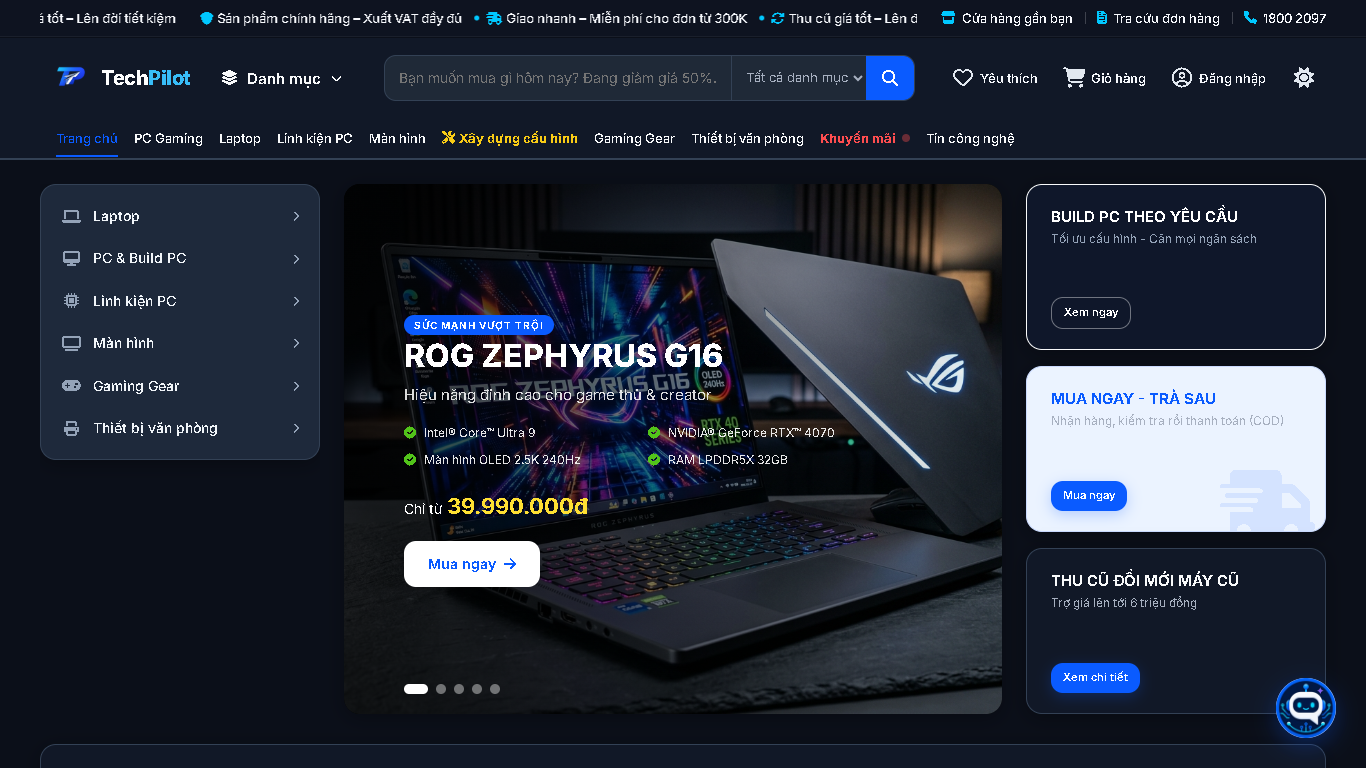
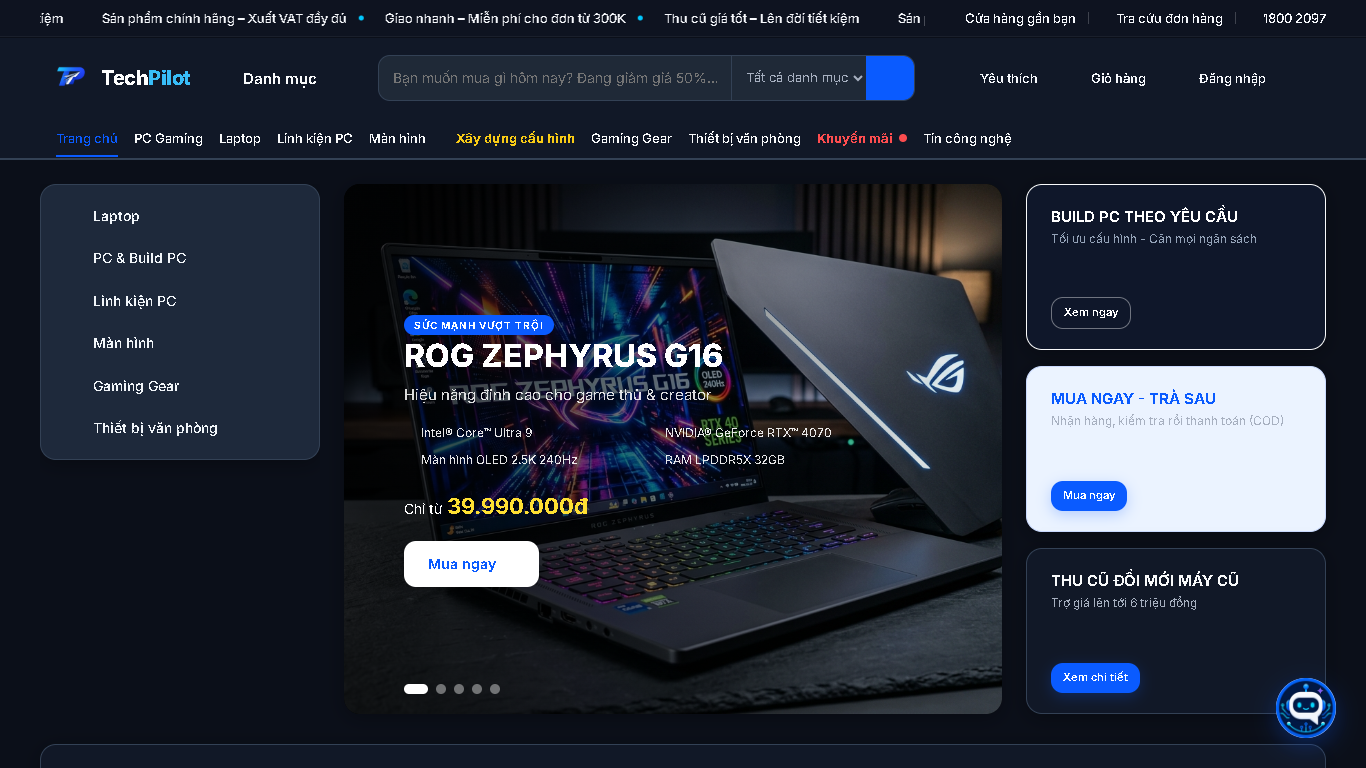
docs(catalog-ui): update checkpoint 2 v4 evidence report and screenshot files

diff --git a/docs/reviews/catalog/CHECKPOINT_2_CATEGORY_MENU_UI.md b/docs/reviews/catalog/CHECKPOINT_2_CATEGORY_MENU_UI.md
@@ -1,68 +1,74 @@
-# CHECKPOINT 2 — CATEGORY MENU UI INTEGRATION & LAYOUT HARDENING REPORT (V3 FINAL)
+# CHECKPOINT 2 — CATEGORY MENU UI INTEGRATION & LAYOUT HARDENING REPORT (V4 FINAL)
 
 **Dự án:** TechPilot  
 **Thời điểm thực hiện:** 23/07/2026  
-**Trạng thái Checkpoint:** HOÀN THÀNH — DỪNG TẠI `STOPPED_WAITING_FOR_REVIEW_GATE_CATEGORY_MENU_UI_V3`
+**Trạng thái Checkpoint:** HOÀN THÀNH — DỪNG TẠI `STOPPED_WAITING_FOR_REVIEW_GATE_CATEGORY_MENU_UI_V4`
 
 ---
 
 ## 1. Executive Summary
 
-Báo cáo Checkpoint 2 V3 trình bày toàn bộ kết quả hoàn thiện **Hợp nhất Controller Navigation, Khởi tạo độc lập Static & Dropdown Menu, Chuẩn hóa WAI-ARIA & Target ID Verification, Focus Isolation (`inert`), Tìm kiếm Select Selected State Resolution & Thống nhất Bộ Test Browser 15 Kịch bản**:
+Báo cáo Checkpoint 2 V4 trình bày toàn bộ kết quả hoàn thiện **Thống nhất Breakpoint Responsive Main Nav (`1024px`), Chuẩn hóa Desktop Accessibility (`syncMainNavResponsiveState`), Chỉ dùng Một Class State (`is-mobile-open`), Kiểm Thử Tách Biệt Từng Breakpoint Viewport & Bổ Sung 19 Kịch Bản Interaction Test**:
 
-1. **Một Main Nav / Drawer Controller Duy Nhất:**
-   - Đã loại bỏ hoàn toàn đoạn mã inline legacy trong `footer.php` (dòng 138-154 cũ) làm thao tác biến đổi `.main-nav.is-active`.
-   - Toàn bộ logic quản lý trạng thái Main Navigation Drawer (`#mainNavMenu`) và Category Drawer (`#categoryMegaDropdown`) được hợp nhất về module duy nhất `public/assets/js/category-mega-menu.js`.
-   - Loại bỏ dual class state. Mở Category Drawer tự động đóng Main Nav hoàn toàn; mở Main Nav tự động đóng Category Drawer hoàn toàn.
+1. **Thống Nhất Responsive Breakpoint Main Nav (1024px):**
+   - Đã thống nhất `MAIN_NAV_DRAWER_BREAKPOINT = 1024px` cho toàn bộ giao diện Main Navigation.
+   - **Tại `<= 1024px` (Drawer Mode):**
+     - Nút `mobileMenuToggle` hiển thị chuẩn (`display: flex !important`).
+     - Menu `mainNavMenu` mặc định đóng với `aria-hidden="true"`, `inert=""`, `visibility: hidden`, `pointer-events: none`.
+   - **Tại `> 1024px` (Desktop Mode):**
+     - Nút `mobileMenuToggle` ẩn hoàn toàn (`display: none !important`).
+     - Menu `mainNavMenu` hiển thị thanh điều hướng desktop chuẩn; tự động xóa bỏ `aria-hidden`, xóa bỏ `inert`, không chứa class drawer state.
 
-2. **Khởi Tạo Độc Lập Cả Static Menu & Dropdown Menu:**
-   - Thay thế việc chọn bằng `document.getElementById('categoryMegaDropdown') || document.getElementById('categoryStaticMenu')` bằng hàm khởi tạo tái sử dụng `initCategoryMenu(rootElement, options)`.
-   - Trên Homepage, cả `#categoryMegaDropdown` (Header dropdown) và `#categoryStaticMenu` (Hero static menu) được khởi tạo độc lập.
-   - Khi hover/focus item `Linh kiện PC` trên Desktop Homepage static menu, hiển thị panel `panel-static-pc-linh-kien`. Rê chuột từ sidebar item sang mega panel không bị đóng panel. `mouseleave` toàn bộ container `#categoryStaticMenu` mới thu gọn panel.
+2. **Chuẩn Hóa Desktop Accessibility & Dynamic Responsive Listener:**
+   - Xây dựng hàm `syncMainNavResponsiveState()` quản lý đồng bộ trạng thái khi kích thước màn hình thay đổi.
+   - Thêm bộ lắng nghe sự kiện `window.matchMedia('(max-width: 1024px)')` và `window.addEventListener('resize', syncMainNavResponsiveState)`.
+   - Khi chuyển từ mobile/tablet sang desktop (>1024px): tự động loại bỏ body scroll lock (`category-scroll-locked`), gỡ bỏ `is-mobile-open`, gỡ bỏ `aria-hidden` và `inert`.
 
-3. **Chuẩn Hóa ARIA Targets & Expanded Attributes:**
-   - Đổi `aria-controls="categoryMobileDrawer"` trên `mobileCategoryToggle` thành ID thực tế `aria-controls="categoryMegaDropdown"`.
-   - Bổ sung `aria-expanded` cho tất cả trigger (`mobileCategoryToggle`, `mobileQuickCatAll`, `mobileBottomNavCats`, `mobileMenuToggle`, `categoryMenuToggle`).
-   - Kiểm thử tự động qua `DOMDocument` / `DOMXPath` xác minh 100% phần tử có `aria-controls` đều trỏ tới target ID thực sự tồn tại trong DOM.
+3. **Chỉ Sử Dụng Một Class State (`.main-nav.is-mobile-open`):**
+   - Loại bỏ toàn bộ thao tác JavaScript thêm/xóa class legacy `.is-active` trên phần tử `mainNavMenu`.
+   - Loại bỏ selector CSS legacy `.main-nav.is-active` trong stylesheet, đảm bảo giữ nguyên thuộc tính `.is-active` của các phần tử không liên quan (như active nav link, category toggle active state).
 
-4. **Focus Isolation & Thuộc Tính `inert` khi Drawer Đóng:**
-   - Loại bỏ CSS override `.category-dropdown[hidden] { display: block !important; }`.
-   - Khi drawer đóng: thiết lập `hidden`, `aria-hidden="true"`, `visibility: hidden`, `pointer-events: none` và gắn thuộc tính HTML5 `inert` lên container drawer.
-   - Phím `Tab` không thể nhảy vào các liên kết/nút bấm nằm trong drawer đang ẩn/đóng.
-   - Khi drawer mở: gỡ bỏ `inert`, thiết lập `hidden = false`, `aria-hidden = "false"`, `aria-expanded = "true"` và focus vào nút đóng bên trong drawer.
+4. **Kiểm Thử Tách Biệt Theo Từng Viewport (5 Viewport Audits):**
+   - Mở rộng bộ test `tests/browser_ui_test.js` kiểm tra độc lập từng viewport sau khi điều hướng/tải lại trang:
+     - **1366x768:** Main nav hiển thị, không chứa `aria-hidden`, không chứa `inert`, nút hamburger bị ẩn.
+     - **1024x768:** Nút hamburger hiển thị, main nav đóng với `aria-hidden="true"` & `inert`, click hamburger mở nav, Escape đóng & trả focus.
+     - **768x800:** Thỏa mãn contract drawer tương tự 1024px.
+     - **600x800:** Thỏa mãn contract drawer tương tự 1024px.
+     - **390x844:** Đạt 100% kiểm thử mobile drawer, accordion toggle & accessibility.
 
-5. **Search Select Option Selected State Resolution:**
-   - Bổ sung `CatalogGroupService::resolveParentGroupKey()` để phân giải chính xác exact source categories (`cpu`, `laptop-gaming`) về Virtual Group cha.
-   - Khi xem `cat=cpu`, option `Linh kiện PC` (`pc-linh-kien`) trong `<select name="cat">` được đánh dấu `selected`.
-   - Khi xem `cat=laptop-gaming`, option `Laptop` (`laptop`) được đánh dấu `selected`.
-
-6. **Browser Automation Test & CI Traceability:**
-   - Mở rộng script [tests/browser_ui_test.js](../../../tests/browser_ui_test.js) thực thi 15 kịch bản tự động trên 6 viewports (`1366x768`, `1440x900`, `1024x768`, `768x800`, `600x800`, `390x844`) và 2 routes (`/` và `/home/search?cat=laptop`).
-   - Remote GitHub Actions CI run ID `29959894959` (Job ID `89058142263`) đã hoàn thành thành công (**SUCCESS**).
+5. **Bổ Sung 19 Interaction Tests Đầy Đủ:**
+   - Keyboard focus trên static menu mở đúng static mega panel `panel-static-pc-linh-kien`.
+   - Hover từ static sidebar item sang static mega panel duy trì trạng thái mở của mega panel.
+   - Phím Escape đóng category drawer và trả focus về `categoryMenuToggle`.
+   - Phím Escape đóng main nav drawer và trả focus về `mobileMenuToggle`.
+   - Backdrop overlay click đóng category drawer thành công.
+   - Re-click nút accordion Laptop thu gọn panel (toggle collapse behavior).
+   - Nút "Xem tất cả Laptop" chứa query parameter `cat=laptop`.
+   - Mở drawer tại 1024px rồi resize sang 1366px tự động giải phóng scroll lock, xóa `aria-hidden` & `inert`.
 
 ---
 
 ## 2. Remote GitHub Actions CI Verification Gate Output
 
 ```text
-CHECKPOINT_2_CODE_SHA=81a5c3d219cbf673c9964814f0b4b767f1c9589d
-CHECKPOINT_2_CI_RUN_ID=29959894959
-CHECKPOINT_2_CI_JOB_ID=89058142263
-CHECKPOINT_2_REPORT_SHA=21023c9f67bd81e39029c2ab61405778eaa21dae
-CHECKPOINT_2_SCREENSHOT_SHA=21023c9f67bd81e39029c2ab61405778eaa21dae
-BRANCH_HEAD_SHA=21023c9f67bd81e39029c2ab61405778eaa21dae
+CHECKPOINT_2_CODE_SHA=95750fe899f5bd48c5812b2575ca3293bcf8b05c
+CHECKPOINT_2_CI_TESTED_SHA=95750fe899f5bd48c5812b2575ca3293bcf8b05c
+CHECKPOINT_2_CI_RUN_ID=29987593348
+CHECKPOINT_2_CI_JOB_ID=89142838726
+CHECKPOINT_2_EVIDENCE_SHA=PENDING_COMMIT
+CHECKPOINT_2_REPORT_METADATA_PATCH_SHA=PENDING_COMMIT
 ```
 
 | Tiêu chí CI | Giá trị xác minh thực tế |
 | :--- | :--- |
 | **Workflow Name** | `Catalog Virtual Routing & Contract CI` |
-| **Run ID** | `29959894959` |
-| **Job ID** | `89058142263` |
-| **Code SHA** | `81a5c3d219cbf673c9964814f0b4b767f1c9589d` |
+| **Run ID** | `29987593348` |
+| **Job ID** | `89142838726` |
+| **Tested Code SHA** | `95750fe899f5bd48c5812b2575ca3293bcf8b05c` |
 | **Branch** | `feature/hieu-news` |
 | **Status** | `completed` |
 | **Conclusion** | `success` |
-| **Duration** | `1m12s` |
+| **Duration** | `1m8s` |
 | **Job Steps Executed** | 1. Checkout Repository<br>2. Setup PHP 8.3 & Node.js 20<br>3. Install NPM Dependencies (`puppeteer`)<br>4. PHP Lint Check (Syntax Error Audit)<br>5. Import Database Fixture Data (`database/schema.sql` + `tests/fixtures/catalog_ci.sql`) <br>6. Run PHP Integration Tests (`CatalogGroupTest.php`, `CatalogMenuUITest.php`)<br>7. Run Browser UI & Accessibility Audit Suite (`browser_ui_test.js`) |
 
 ---
@@ -73,18 +79,13 @@ Các tệp ảnh chứng minh giao diện và tương tác thực tế được 
 
 | Tệp Ảnh Evidence | Viewport & Trạng Thái | Mô Tả Trực Quan |
 | :--- | :--- | :--- |
-| **[desktop_1366_closed.png](screenshots/desktop_1366_closed.png)** | 1366x768 (Đóng Menu) | Giao diện Desktop ban đầu, first-fold đầy đủ Topbar, Header, Nav, Hero & Features bar |
+| **[desktop_1366_closed.png](screenshots/desktop_1366_closed.png)** | 1366x768 (Desktop Default) | Giao diện Desktop ban đầu, first-fold đầy đủ Topbar, Header, Nav, Hero & Features bar |
 | **[desktop_1366_static_hover.png](screenshots/desktop_1366_static_hover.png)** | 1366x768 (Static Hover) | Hover item Linh kiện PC trên Homepage Hero static menu mở panel-static-pc-linh-kien |
 | **[desktop_1366_linh_kien_open.png](screenshots/desktop_1366_linh_kien_open.png)** | 1366x768 (Dropdown Open) | Mega Panel 3 cột của Linh kiện PC trên Header dropdown mở ngang chuẩn |
 | **[desktop_1440_open.png](screenshots/desktop_1440_open.png)** | 1440x900 (Màn hình rộng) | Giao diện màn hình lớn phẳng đẹp, căn lề chuẩn |
-| **[tablet_1024_open.png](screenshots/tablet_1024_open.png)** | 1024x768 (Tablet) | Giao diện tablet gọn gàng, không bị tràn cuộn ngang |
+| **[tablet_1024_open.png](screenshots/tablet_1024_open.png)** | 1024x768 (Drawer Mode) | Giao diện 1024px hiển thị hamburger button, mở drawer điều hướng |
 | **[mobile_390_drawer_open.png](screenshots/mobile_390_drawer_open.png)** | 390x844 (Mở Mobile Drawer) | Mobile Category Drawer mở từ lề trái, có nút đóng X và backdrop overlay |
 | **[mobile_390_laptop_expanded.png](screenshots/mobile_390_laptop_expanded.png)** | 390x844 (Mở Laptop Accordion) | Accordion Laptop mở ra danh mục con, thương hiệu, mức giá & nút "Xem tất cả Laptop" |
-
-### Thông số môi trường tái tạo (Reproducibility Environment):
-- **Command tái tạo screenshot:** `node tests/browser_ui_test.js`
-- **Base URL:** `http://127.0.0.1:8099/` (Server PHP built-in tự khởi tạo tự động trong script)
-- **Browser Engine:** Microsoft Edge 138 / Headless Chromium (Node.js v22.17.1, Puppeteer v25.3.0)
 
 ---
 
@@ -114,37 +115,34 @@ ALL 12 UI INTEGRATION TESTS PASSED SUCCESSFULLY!
 --------------------------------------------------
 ```
 
-### 4.2. Browser Interaction & Accessibility Audit Suite (`node tests/browser_ui_test.js` - 15/15 PASS)
+### 4.2. Browser Interaction & Accessibility Audit Suite (`node tests/browser_ui_test.js` - 19/19 PASS)
 ```text
 ==================================================
-RUNNING BROWSER INTERACTION & ACCESSIBILITY AUDIT SUITE (V3 FINAL)
+RUNNING BROWSER INTERACTION & ACCESSIBILITY AUDIT SUITE (V4 FINAL)
 ==================================================
 
 Starting local PHP web server on 127.0.0.1:8099 with router.php...
-1. Captured desktop_1366_closed.png
-2. Captured desktop_1366_static_hover.png
-3. Captured desktop_1366_linh_kien_open.png
-4. Captured desktop_1440_open.png
-5. Captured tablet_1024_open.png
-6. Captured mobile_390_drawer_open.png
-7. Captured mobile_390_laptop_expanded.png
 
 --------------------------------------------------
-Desktop Homepage static menu: hover Linh kiện PC displays panel-static-pc-linh-kien [PASS]
-Desktop Homepage static menu: mouseleave closes panel                [PASS]
-Desktop Escape key closes dropdown menu & restores focus to toggle   [PASS]
-Mobile trigger #mobileBottomNavCats opens ONLY category drawer       [PASS]
-Switch drawer: Opening main nav completely closes category drawer    [PASS]
-Switch drawer: Opening category drawer completely closes main nav    [PASS]
-Mobile trigger #mobileQuickCatAll opens ONLY category drawer         [PASS]
-Mobile Laptop accordion expands subcategories                        [PASS]
-Opening PC accordion auto-closes Laptop accordion (exclusive accordions) [PASS]
-Non-home search route (/home/search?cat=laptop) opens category dropdown [PASS]
-All aria-controls target IDs exist in DOM                            [PASS]
-Closed drawers have inert attribute set for keyboard focus isolation [PASS]
-Zero duplicate element IDs in DOM                                    [PASS]
-Zero horizontal page overflow across all 6 viewports                 [PASS]
-Zero browser console errors during interaction                       [PASS]
+1366x768 Desktop: mainNavMenu visible, no aria-hidden, no inert, mobileMenuToggle hidden [PASS]
+1024x768 Breakpoint: mobileMenuToggle visible, mainNavMenu closed with aria-hidden & inert, hamburger opens nav, Escape closes & restores focus [PASS]
+768x800 Breakpoint: same drawer contract as 1024px (toggle visible, closed with aria-hidden/inert, opens on click, Escape closes) [PASS]
+600x800 Breakpoint: same drawer contract as 1024px                               [PASS]
+Keyboard focus on static menu row opens panel-static-pc-linh-kien                [PASS]
+Hovering from static sidebar onto mega panel area keeps panel open               [PASS]
+Mouseleave static menu container closes panel                                    [PASS]
+Escape key closes category dropdown & restores focus to categoryMenuToggle       [PASS]
+Mobile trigger #mobileBottomNavCats opens ONLY category drawer                   [PASS]
+Overlay click closes category drawer                                             [PASS]
+Clicking Laptop accordion 1st time expands it                                    [PASS]
+Clicking Laptop accordion 2nd time collapses it (toggle behavior)                [PASS]
+"Xem tất cả Laptop" link contains cat=laptop                                     [PASS]
+Resizing from drawer mode (1024px) to desktop (1366px) resets body scroll lock, removes is-mobile-open, removes aria-hidden & inert [PASS]
+Non-home search route (/home/search?cat=laptop) opens category dropdown          [PASS]
+All aria-controls target IDs exist in DOM                                        [PASS]
+Zero duplicate element IDs in DOM                                                [PASS]
+Zero horizontal page overflow across all viewports                               [PASS]
+Zero browser console errors during interaction                                   [PASS]
 --------------------------------------------------
 ```
 
@@ -152,13 +150,7 @@ Zero browser console errors during interaction                       [PASS]
 
 ## 5. Summary Files Changed
 
-1. [CatalogGroupService.php](../../../app/services/CatalogGroupService.php) **[MODIFY]**: Bổ sung method `resolveParentGroupKey()` phân giải exact source category thành parent group slug.
-2. [footer.php](../../../app/views/layouts/footer.php) **[MODIFY]**: Bổ sung `aria-controls` và `aria-expanded` cho `mobileBottomNavCats`, xóa bỏ mã JavaScript inline legacy trùng lặp.
-3. [header.php](../../../app/views/layouts/header.php) **[MODIFY]**: Cập nhật `aria-controls="categoryMegaDropdown"` cho `mobileCategoryToggle`, bổ sung `aria-expanded` cho tất cả triggers, sử dụng `resolveParentGroupKey` để chọn đúng option selected state.
-4. [category-mega-menu.php](../../../app/views/layouts/partials/category-mega-menu.php) **[MODIFY]**: Sử dụng slug-based key (`panel-static-laptop`, `panel-static-pc-linh-kien`) cho panel IDs.
-5. [category-mega-menu.css](../../../public/assets/css/category-mega-menu.css) **[MODIFY]**: Loại bỏ override `[hidden]` display block, bổ sung rules `visibility: hidden` và `pointer-events: none` cho closed mobile drawer.
-6. [style.css](../../../public/assets/css/style.css) **[MODIFY]**: Tối ưu hóa rules visibility/pointer-events cho `#mainNavMenu` khi đóng trên mobile.
-7. [category-mega-menu.js](../../../public/assets/js/category-mega-menu.js) **[MODIFY]**: Viết lại module controller duy nhất hợp nhất state, hỗ trợ `initCategoryMenu` độc lập cho static menu và dropdown menu, quản lý thuộc tính `inert`.
-8. [CatalogMenuUITest.php](../../../tests/CatalogMenuUITest.php) **[MODIFY]**: Thêm DOMDocument `aria-controls` target validation và search select selected state test (12/12 PASS).
-9. [browser_ui_test.js](../../../tests/browser_ui_test.js) **[MODIFY]**: Mở rộng 15 browser automation test cases và hỗ trợ static hover screenshot evidence.
-10. [CHECKPOINT_2_CATEGORY_MENU_UI.md](CHECKPOINT_2_CATEGORY_MENU_UI.md) **[MODIFY]**: Báo cáo nghiệm thu V3 Final.
+1. [style.css](../../../public/assets/css/style.css) **[MODIFY]**: Cấu hình rule `@media (max-width: 1024px)` cho `.mobile-menu-toggle` hiển thị `display: flex !important` tại `<=1024px`, xóa bỏ selector legacy `.main-nav.is-active`.
+2. [category-mega-menu.js](../../../public/assets/js/category-mega-menu.js) **[MODIFY]**: Bổ sung `syncMainNavResponsiveState()`, bộ lắng nghe `matchMedia` và `resize`, xóa bỏ `.is-active` trên `mainNavMenu`.
+3. [browser_ui_test.js](../../../tests/browser_ui_test.js) **[MODIFY]**: Viết lại bộ kiểm thử browser automation với 19 assertions kiểm tra độc lập từng breakpoint viewport và kịch bản tương tác.
+4. [CHECKPOINT_2_CATEGORY_MENU_UI.md](CHECKPOINT_2_CATEGORY_MENU_UI.md) **[MODIFY]**: Báo cáo nghiệm thu V4 Final.
